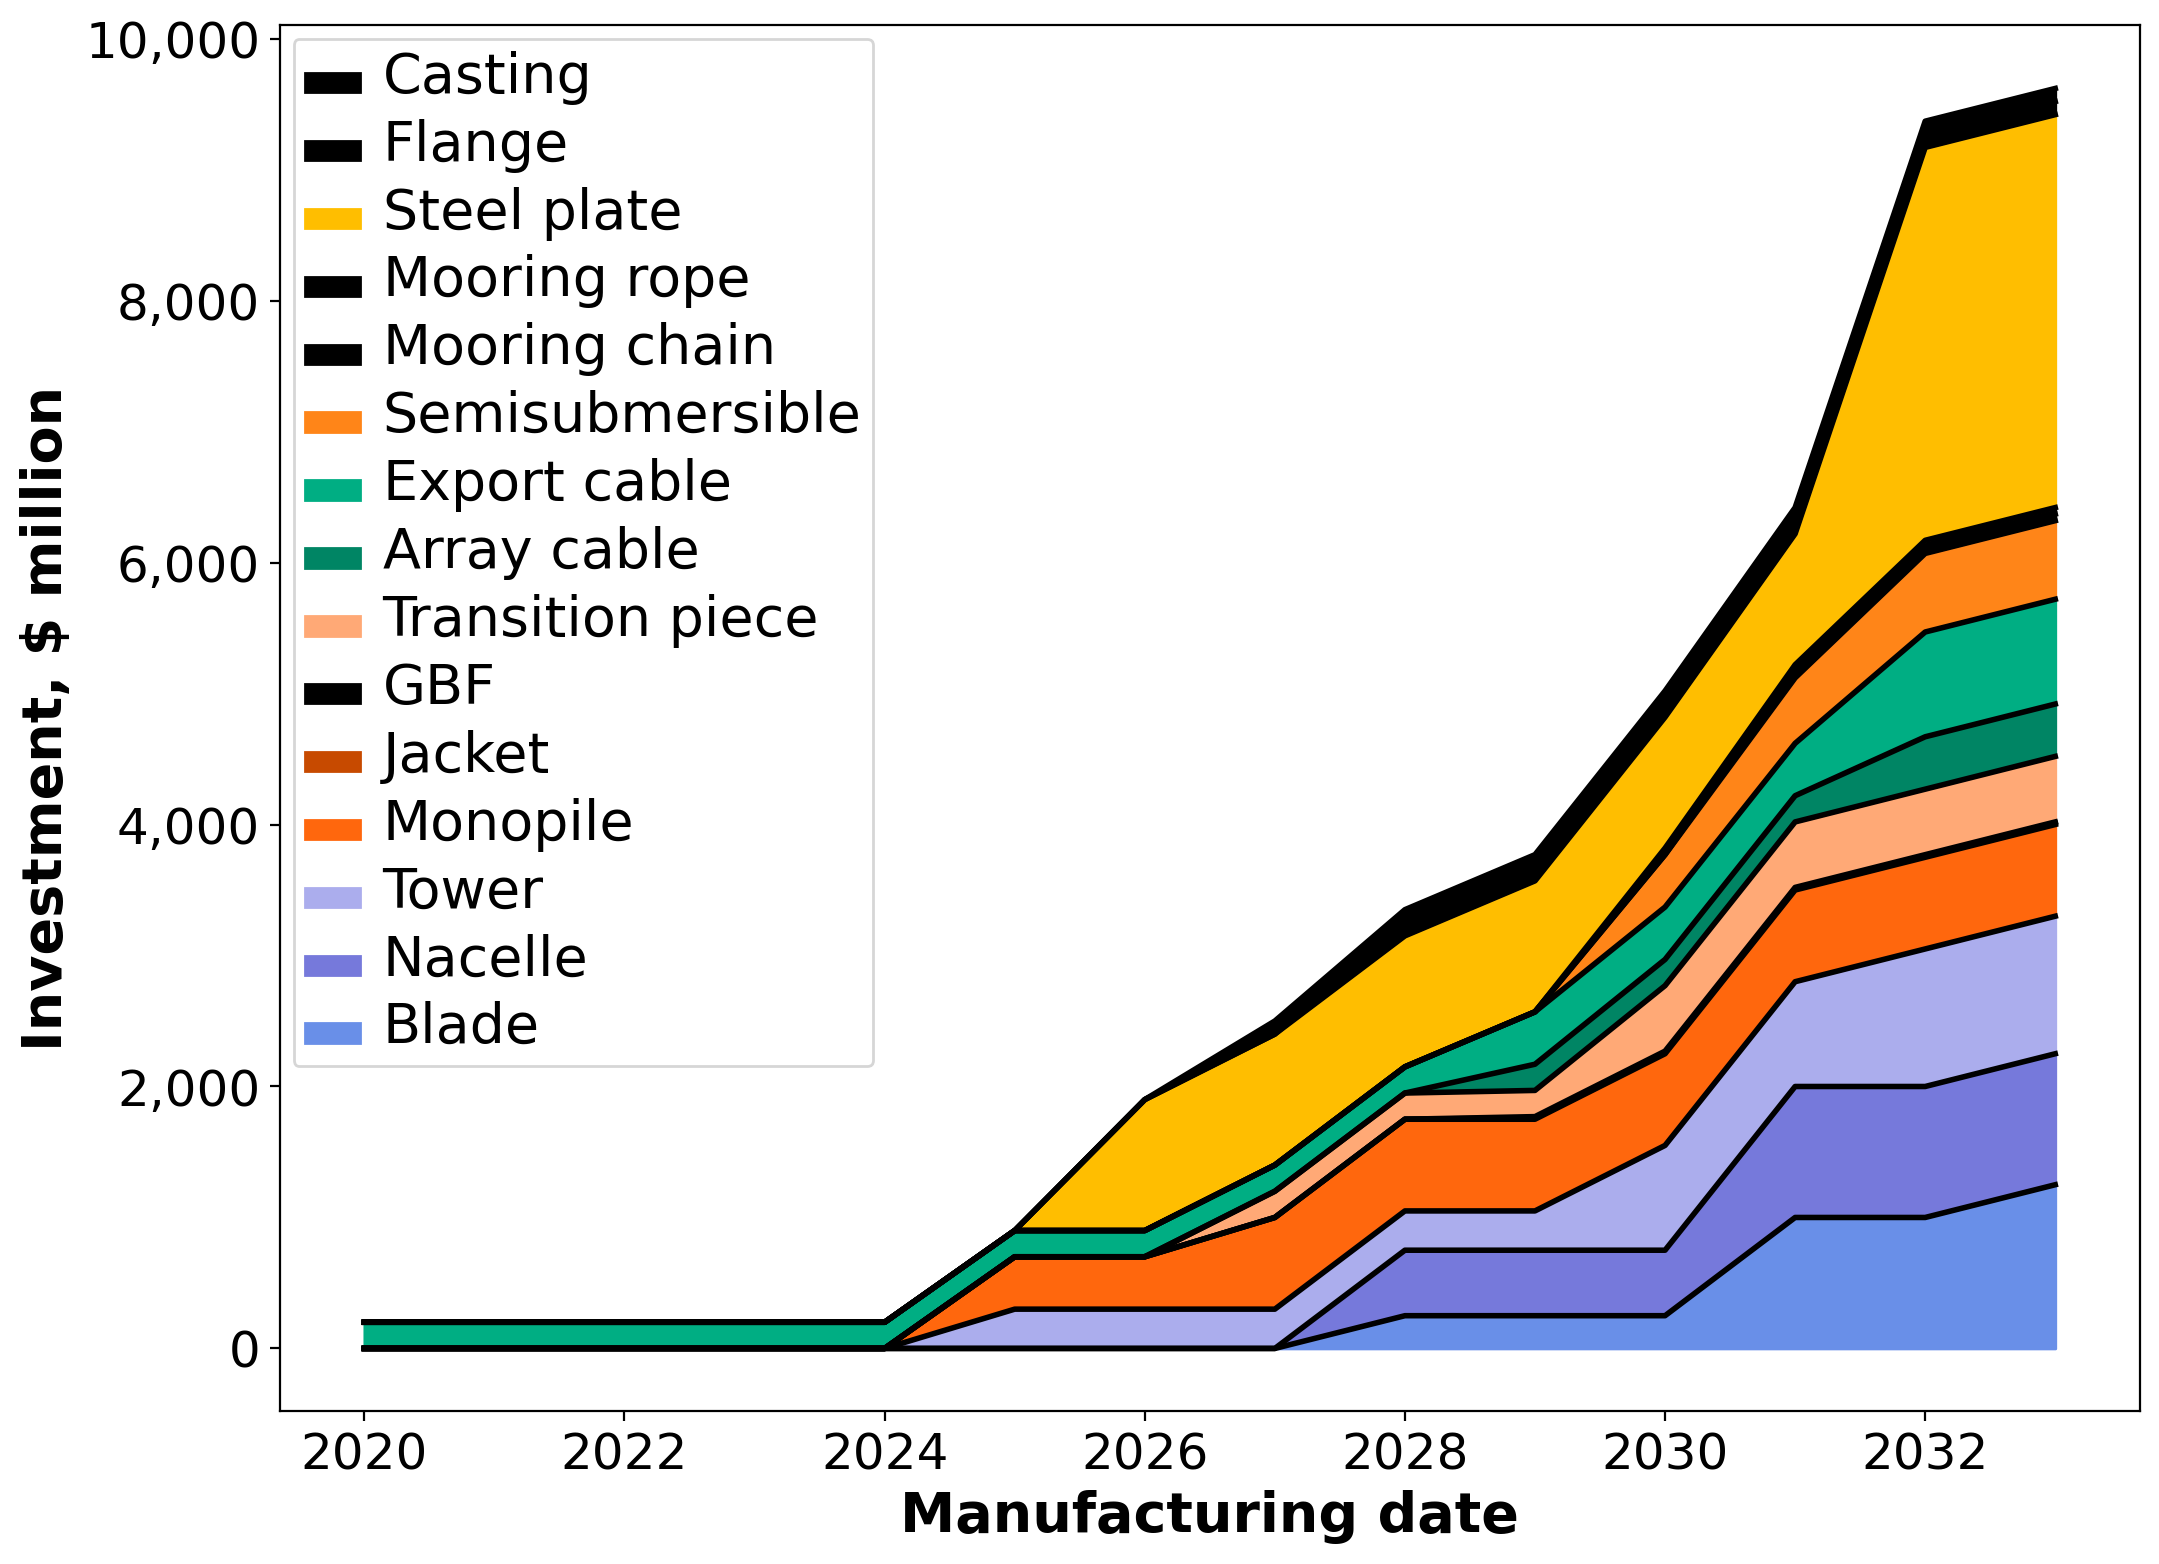
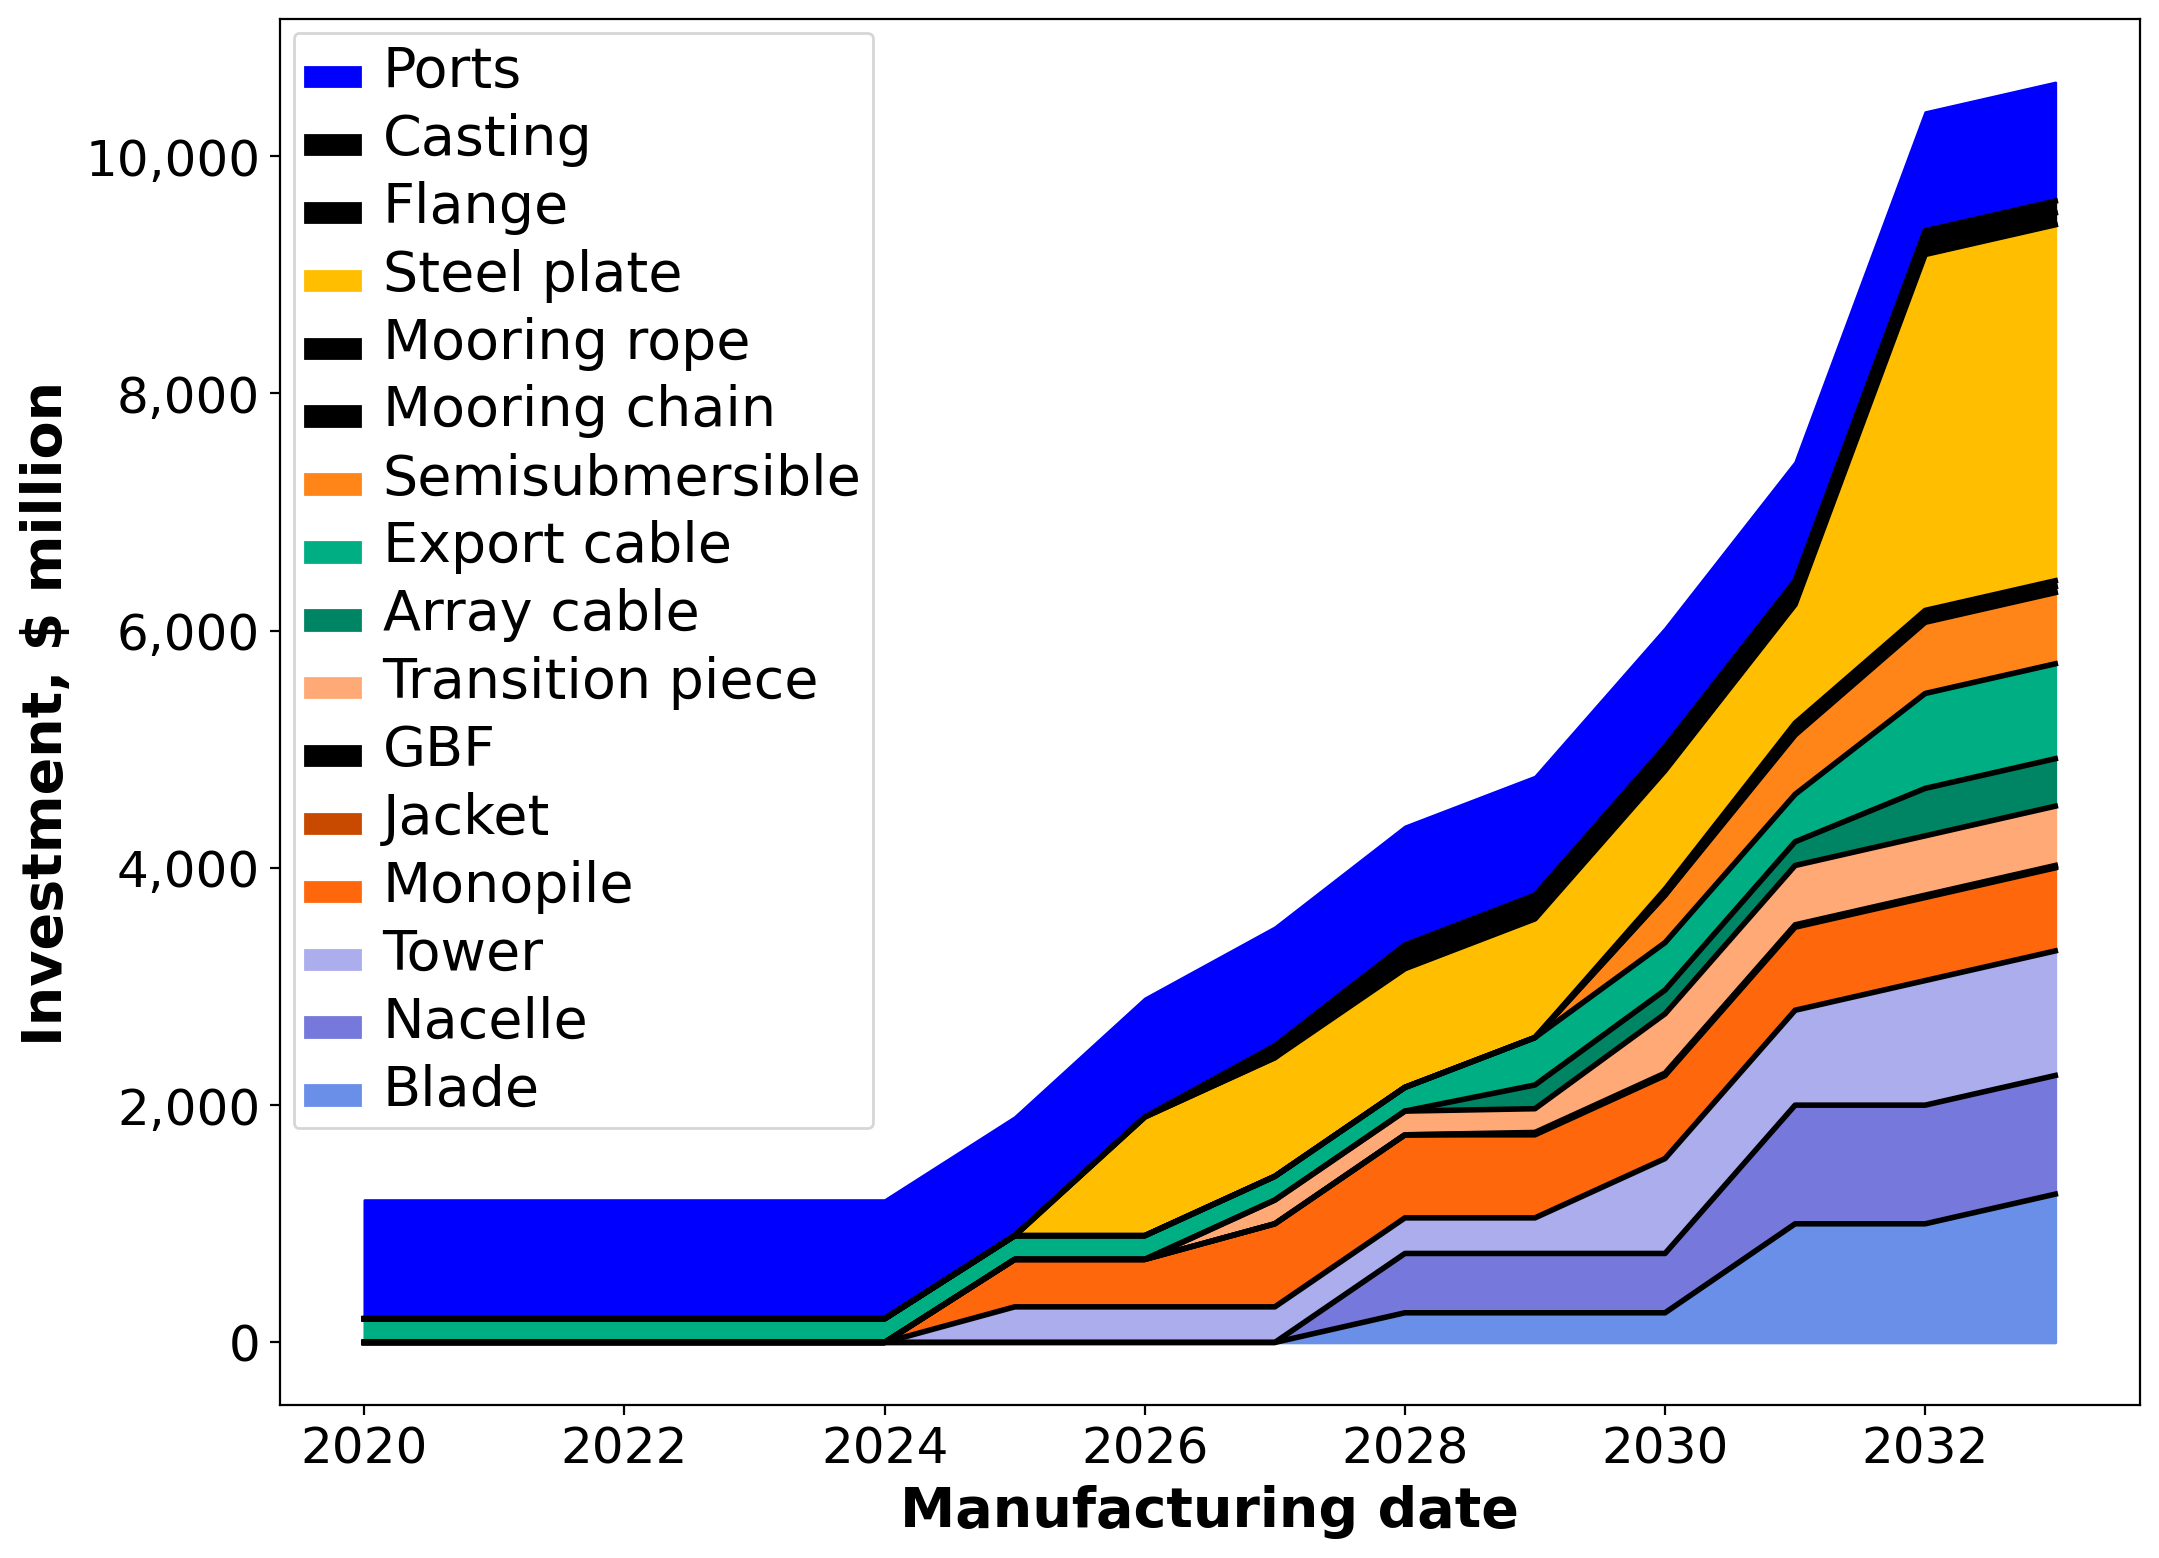
File cleanup.  Add placeholder for ports on cumulative investment plot

diff --git a/factory.py b/factory.py
@@ -21,10 +21,8 @@ class Factory():
         self.outputs = {}
 
     def assign_attributes(self, facility_specs, component, years, name_map):
-        """Read in CSV and assign values to Factory object"""
-        # df = pd.read_excel(filepath, sheet_name=component, index_col=0)
+        """Assign values to Factory object from input CSV"""
 
-        # self.COD = self.define_COD(df, generic, facility)
         self.COD = facility_specs['Operational date']
         self.announced_date = facility_specs['Announcement date']
         self.throughput = facility_specs['Production capacity']
@@ -36,43 +34,17 @@ class Factory():
         self.component = component
         self.construction_time = self.COD - self.announced_date
 
-
-        # if self.facility_type == 'Announced':
-
-        #
-        #
-        # if generic==False:
-        #     self.name = name_map[component]
-        #     self.component = component.split(' - ')[1]
-        # else:
-        #     self.name = facility[2]
-        #     self.component = component
-        # self.throughput = df.loc['Annual throughput', 'Value']
-        # self.investment = df.loc['Investment cost', 'Value']
-        # self.lead_time = df.loc['Lead time', 'Value']
-        # self.total_jobs = df.loc['Total Direct Jobs', 'Value']
-        # self.port_time = port_time
-        # self.port_overlap_time = port_overlap_time
-        # self.construction_time = self.lead_time*self.port_overlap_time + self.port_time
-        #
-        # self.announced_date = self.COD - self.construction_time
-
-    # def define_COD(self, df, generic, facility):
-    #     """Either read COD for facility or calculate from annoucmentn"""
-    #     if generic==False:
-    #         COD = df.loc['Operational date', 'Value']
-    #     else:
-    #         COD = facility[0]
-    #     return COD
-
     def define_schedule(self, years):
         """Define throughput per year"""
-        _ind = np.where(years == self.COD)[0]
+
+        _ind = np.where(years == self.COD)[0][0]
+
         self.annual_throughput = np.zeros(len(years))
-        self.annual_throughput[_ind[0]:] = self.throughput
+        self.annual_throughput[_ind:] = self.throughput
+
         # Correct for learning curve in early years
         for yr,perc in learning_curve.items():
-            _yr_ind = _ind[0] + yr
+            _yr_ind = _ind + yr
             try:
                 self.annual_throughput[_yr_ind] = perc * self.throughput
             except IndexError:
@@ -80,8 +52,8 @@ class Factory():
                 print('index error - learning rate applied at end of array in factory.py')
         # Cumulative values
         self.annual_investment = np.zeros(len(years))
-        self.annual_investment[_ind[0]:] = self.investment
+        self.annual_investment[_ind:] = self.investment
         self.annual_fab_port_investment = np.zeros(len(years))
-        self.annual_fab_port_investment[_ind[0]:] = self.fab_port_investment
+        self.annual_fab_port_investment[_ind:] = self.fab_port_investment
         # self.annual_jobs = np.zeros(len(years))
         # self.annual_jobs[_ind[0]:] = self.total_jobs

diff --git a/analysis.py b/analysis.py
@@ -37,17 +37,6 @@ def scenario_analysis(filepath_pipeline, filepath_ports, filepath_deploy, compon
         # Known facilities
         announced[c], scenario[c] = define_factories(all_factories, c, years, announced_name_map
         )
-        # announced[c] = define_factories(filepath_announced,
-        #                                 indiv_announced,
-        #                                 c,
-        #                                 years,
-        #                                 generic=False, name_map = announced_name_map)
-        # # Scenario facilities
-        # scenario[c] = define_factories(filepath_scenarios,
-        #                                 indiv_scenario,
-        #                                 c,
-        #                                 years,
-        #                                 generic=True)
 
         announced_list += announced[c]
         scenario_list += scenario[c]
@@ -61,10 +50,6 @@ def scenario_analysis(filepath_pipeline, filepath_ports, filepath_deploy, compon
         total_scenario_throughput[c] = sum_property(years, scenario[c], 'annual_throughput')
         total_announced_investment[c] = sum_property(years, announced[c], 'annual_investment')
         total_scenario_investment[c] = sum_property(years, scenario[c], 'annual_investment')
-        # total_announced_jobs[c] = sum_property(years, announced[c], 'annual_jobs')
-        # total_scenario_jobs[c] = sum_property(years, scenario[c], 'annual_jobs')
-
-
 
         # Compare with demand
         fname = 'results/'+ plot_dir + '/' + c + '_supply_demand'
@@ -118,7 +103,11 @@ def scenario_analysis(filepath_pipeline, filepath_ports, filepath_deploy, compon
         # ylabel = 'Cumulative jobs, FTEs'
         # plot_supply_demand(years, zip(y_jobs, color_jobs, name_jobs, hatch_jobs), color_list, c, ylabel, fname=fname)
 
-    plot_cumulative(years, total_announced_investment, total_scenario_investment, components, color_list, ylabel = 'Investment, $ million', fname='results/total_investment')
+    ### total_announced_investment = arrays
+    ### announced = dict
+    total_ports = np.multiply(np.ones(len(years)), 1000)
+
+    plot_cumulative(years, total_announced_investment, total_scenario_investment, total_ports, components, color_list, ylabel = 'Investment, $ million', fname='results/total_investment')
     #
     # plot_cumulative(years, total_announced_jobs, total_scenario_jobs, components, color_list, ylabel='Direct manufacturing jobs, FTEs', fname='results/total_jobs', alternate_breakdown=job_breakdown)
     #

diff --git a/helpers.py b/helpers.py
@@ -56,19 +56,6 @@ ymax_plots = {'Monopile': 350,
 }
 
 color_list = {
-    # 'Monopile': '#303CAA',
-    # 'Jacket': '#717ACC',
-    # 'Semisubmersible': '#0F1872',
-    # 'Blade': '#F6A92A',
-    # 'Nacelle': '#FFCE7C',
-    # 'Tower': '#A56700',
-    # 'Transition piece': '#717ACC' ,
-    # 'Array cable': '#1B9D84',
-    # 'Export cable': '#5FC3B0',
-    # 'Announced': '#ECB400',
-    # 'Scenario': '#B78B00',
-    # 'WTIV': '#688CD3',
-    # 'Steel plate': 'b',
     # Color scheme for components: https://paletton.com/#uid=70m0P1kuovZh9G7nlz8xWp1E7j0kHlz6lxHTsYGtJjpEN5j5kLGs1q7F9IcGrO+m8T6fxkmuEKatTJhdM3rQzhvZqJ
     'Monopile': '#FF670D',
     'Jacket': '#C74A00',
@@ -190,18 +177,12 @@ def define_factories(facility_list, component, years, name_map):
                 _scenario_factories.append(f)
             else:
                 print('Unknown facility type in ports_scenario spreadsheet')
-    #         if generic == False:
-    #             f = Factory(file, fi, years, generic, name_map=name_map)
-    #         else:
-    #             f = Factory(file, component, years, generic, facility_list[fi])
-    #         _factories.append(f)
     return _announced_factories, _scenario_factories
 
 def sum_property(years, factory_list, property):
     """Sum factory properties for Factory objects in a list"""
     _total = [0] * len(years)
     for f in factory_list:
-        # print(_total, getattr(f,property))
         _total = np.array([sum(x) for x in zip(_total, getattr(f, property))])
     return _total
 

diff --git a/plot_routines.py b/plot_routines.py
@@ -220,7 +220,7 @@ def plot_total_diff(x, y, demand, fname):
 
     return total_percent
 
-def plot_cumulative(x, y1, y2, components, color_list, ylabel, fname=None, alternate_breakdown=None):
+def plot_cumulative(x, y1, y2, y3, components, color_list, ylabel, fname=None, alternate_breakdown=None):
     """ PLot the cumulative investment or jobs in the overall supply chain"""
     fig, ax = initFigAxis()
 
@@ -230,6 +230,8 @@ def plot_cumulative(x, y1, y2, components, color_list, ylabel, fname=None, alter
         ax.plot(x, yPlot, 'k')
         ax.fill_between(x, list(yBase), list(yPlot), color=color_list[c], label=c)
         yBase = yPlot
+
+    ax.fill_between(x, list(yBase), list(yBase + y3), color='b', label='Ports')
 
     ax.set_xlabel('Manufacturing date')
     ax.set_ylabel(ylabel)
